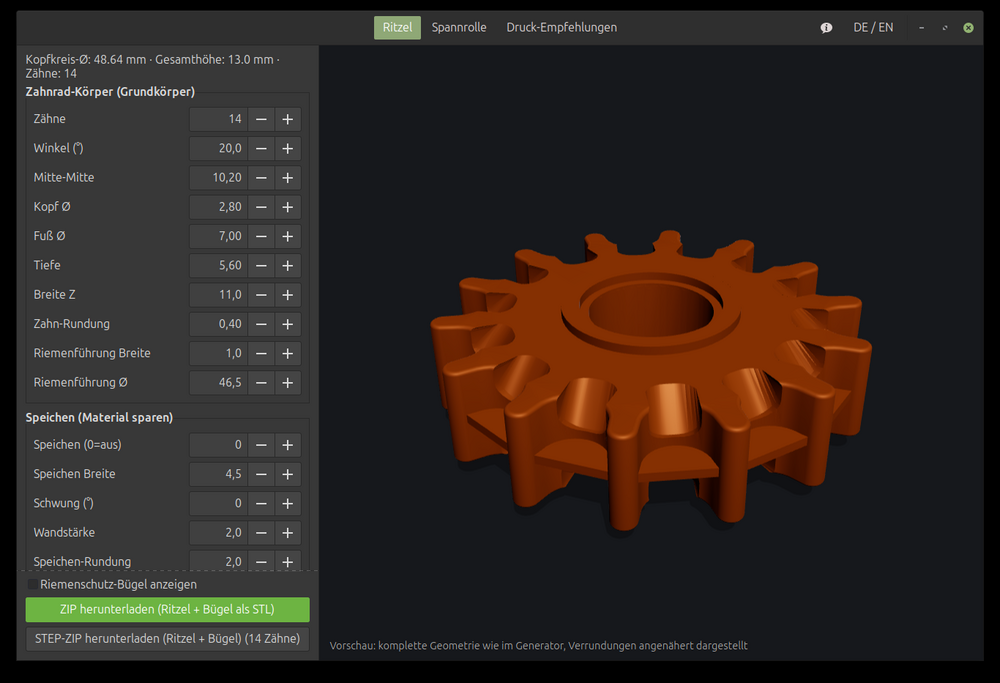
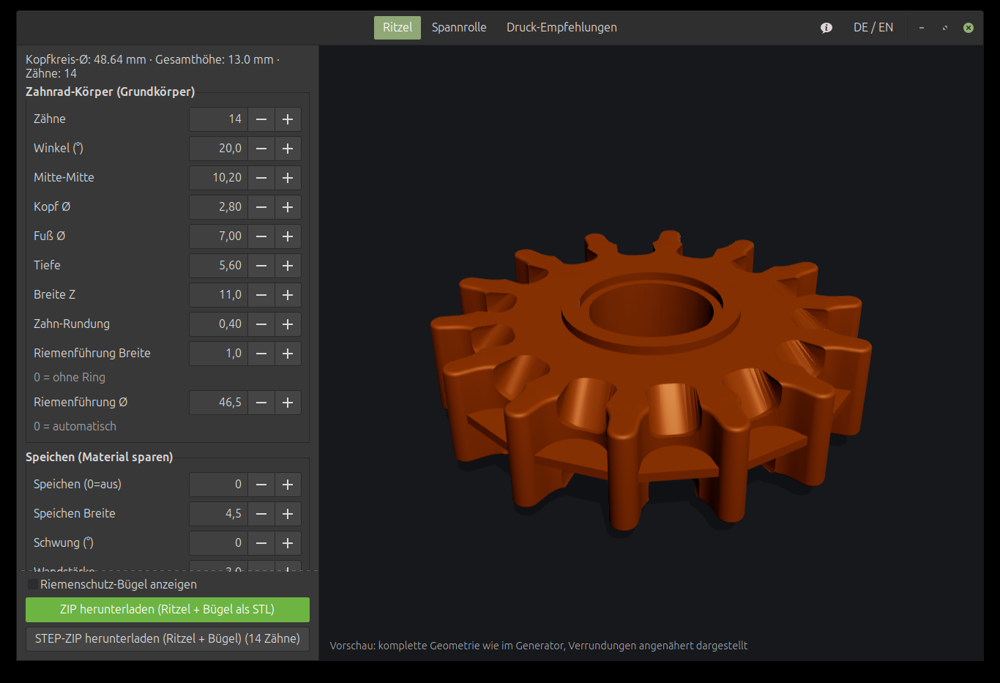
Zusatz '0 = ...' bei Riemenfuehrung wieder sichtbar: graue Zeile unter dem Feld
Label bleibt einzeilig, der Zusatz steht immer sichtbar darunter (Web, Android,
Linux-App). FreeCAD haengt ihn in Klammern an das Label (params.json: zusatz).

diff --git a/web/js/fields.js b/web/js/fields.js
@@ -94,7 +94,7 @@ export function buildFormFields(onChange, bauteil = STANDARD_BAUTEIL) {
   for (const b of PARAMS.bauteile)
     for (const a of b.abschnitte) {
       const sec = document.getElementById(a.id);
-      if (sec) sec.querySelectorAll('.row').forEach(r => r.remove());
+      if (sec) sec.querySelectorAll('.row, .rownote').forEach(r => r.remove());
     }
 
   for (const [secId, felder] of sections(bauteil)) {
@@ -105,9 +105,11 @@ export function buildFormFields(onChange, bauteil = STANDARD_BAUTEIL) {
     for (const [key, labelKey, def, step] of felder) {
       const row = document.createElement('div'); row.className = 'row';
       const lab = document.createElement('label'); lab.textContent = t(labelKey); lab.htmlFor = key;
-      // Kurze Beschriftung + Tooltip: „0 = …“ passt nicht in die Zeile (labelKey_tip).
+      // Kurzer Zusatz („0 = …“): passt nicht ins Label, ist aber wichtig — er steht
+      // als graue Zeile unter dem Feld (labelKey_tip in i18n.js) und als Tooltip.
       const tip = t(labelKey + '_tip');
-      if (tip !== labelKey + '_tip') lab.title = tip;
+      const zusatz = tip !== labelKey + '_tip' ? tip : '';
+      if (zusatz) lab.title = zusatz;
       const inp = document.createElement('input');
       inp.type = 'number'; inp.id = key; inp.value = def; inp.step = step;
       if (key === 'zaehne' && g) {
@@ -126,6 +128,10 @@ export function buildFormFields(onChange, bauteil = STANDARD_BAUTEIL) {
       if (lab.title) inp.title = lab.title;
       inp.addEventListener('input', onChange);
       row.append(lab, spinFeld(inp)); sec.append(row);
+      if (zusatz) {
+        const note = document.createElement('div'); note.className = 'rownote';
+        note.textContent = zusatz; sec.append(note);
+      }
       inputs[key] = inp;
     }
   }

diff --git a/web/js/i18n.js b/web/js/i18n.js
@@ -64,7 +64,7 @@ export const i18n = {
       tooth_round: 'Zahn-Rundung',
       guide_width: 'Riemenführung Breite',
       guide_width_tip: '0 = ohne Ring',
-      guide_d_tip: '0 = automatisch (passt sich dem Zahnkranz an)',
+      guide_d_tip: '0 = automatisch',
       hint_guide: 'Riemenführung = der mittlere Führungsring für den Gates-Riemen. Breite 0 = kein Ring. Ø 0 = automatisch, der Ring passt sich dem Zahnkranz an.',
       guide_d: 'Riemenführung Ø',
       bore_d: 'Bohrung Ø',
@@ -168,7 +168,7 @@ export const i18n = {
       tooth_round: 'Tooth rounding',
       guide_width: 'Belt guide width',
       guide_width_tip: '0 = no ring',
-      guide_d_tip: '0 = automatic (adapts to the tooth rim)',
+      guide_d_tip: '0 = automatic',
       hint_guide: 'Belt guide = the central guide ring for the Gates belt. Width 0 = no ring. Ø 0 = automatic, the ring adapts to the tooth rim.',
       guide_d: 'Belt guide Ø',
       bore_d: 'Bore Ø',

diff --git a/web/css/style.css b/web/css/style.css
@@ -66,6 +66,7 @@ legend + * { clear: both; }
 .row input::-webkit-outer-spin-button,
 .row input::-webkit-inner-spin-button { -webkit-appearance: none; margin: 0; }
 .row input:focus { outline: none; border-color: var(--accent); }
+.rownote { font-size: 13px; color: var(--muted); margin: -3px 0 8px; }
 .spinbtn {
   /* globale Knopf-Regel (block/100%) zurücksetzen */
   display: block; width: 32px; flex: 0 0 32px; margin: 0 0 0 -1px; padding: 0;

diff --git a/linux/ritzel-generator.py b/linux/ritzel-generator.py
@@ -59,7 +59,9 @@ JS_AUSLESEN = """(function(){
     fs.querySelectorAll('.row').forEach(r => {
       const l = r.querySelector('label'), i = r.querySelector('input');
       if (!i) return;
+      const n = r.nextElementSibling;
       rows.push({id: i.id, label: l ? l.textContent.trim() : i.id, value: parseFloat(i.value),
+                 note: n && n.classList.contains('rownote') ? n.textContent.trim() : '',
                  step: parseFloat(i.step) || 1,
                  min: i.min !== '' ? parseFloat(i.min) : null,
                  max: i.max !== '' ? parseFloat(i.max) : null});
@@ -294,7 +296,8 @@ class App(Gtk.Window):
             gitter = Gtk.Grid(row_spacing=6, column_spacing=10)
             for m in ('start', 'end', 'top', 'bottom'):
                 getattr(gitter, f'set_margin_{m}')(10)
-            for z, r in enumerate(sec['rows']):
+            zeile = 0                       # Gitterzeile: Zusätze brauchen eine eigene
+            for r in sec['rows']:
                 lab = Gtk.Label(label=r['label'], xalign=0, wrap=True)
                 lab.set_hexpand(True)
                 step = r['step']
@@ -306,10 +309,17 @@ class App(Gtk.Window):
                 spin.set_width_chars(7)
                 spin.set_alignment(1.0)
                 spin.connect('value-changed', self.wert_geaendert, r['id'])
-                gitter.attach(lab, 0, z, 1, 1)
-                gitter.attach(spin, 1, z, 1, 1)
+                gitter.attach(lab, 0, zeile, 1, 1)
+                gitter.attach(spin, 1, zeile, 1, 1)
                 self.zeilen[r['id']] = spin
-            ende = len(sec['rows'])
+                zeile += 1
+                if r.get('note'):           # Zusatz („0 = …“) als graue Zeile unter dem Feld
+                    zusatz = self.neues_hinweislabel()
+                    zusatz.set_text(r['note'])
+                    zusatz.set_margin_bottom(2)
+                    gitter.attach(zusatz, 0, zeile, 2, 1)
+                    zeile += 1
+            ende = zeile
             for h in sec['hints']:
                 l = self.neues_hinweislabel()
                 l.set_text(h)

diff --git a/freecad/zahnrad_params.py b/freecad/zahnrad_params.py
@@ -41,6 +41,13 @@ def _teil(bauteil):
     return _BAUTEILE.get(bauteil, _BAUTEILE[STANDARD_BAUTEIL])
 
 
+def _label(feld):
+    """Beschriftung eines Feldes, mit dem Zusatz in Klammern (z. B. „0 = ohne
+    Ring“), falls params.json einen kennt."""
+    zusatz = feld.get("zusatz")
+    return f"{feld['de']} ({zusatz})" if zusatz else feld["de"]
+
+
 def feld_sektionen(bauteil=STANDARD_BAUTEIL):
     """Eingabefelder eines Bauteils, gegliedert wie das FreeCAD-Bedienfeld
     sie anzeigt. Format je Abschnitt: (Überschrift, [(key, label, default)])."""
@@ -55,7 +62,7 @@ def feld_sektionen(bauteil=STANDARD_BAUTEIL):
     reihenfolge = teil.get("reihenfolge_freecad", list(nach_id))
     return [
         (nach_id[_id]["de"],
-         [(f["key"], f["de"], f["standard"]) for f in nach_id[_id]["felder"]])
+         [(f["key"], _label(f), f["standard"]) for f in nach_id[_id]["felder"]])
         for _id in reihenfolge
     ]
 

diff --git a/freecad/zahnrad_ui.py b/freecad/zahnrad_ui.py
@@ -210,7 +210,9 @@ class ZahnradDockPanel(QtWidgets.QDockWidget):
         for i, (label, spinbox) in enumerate(paare):
             box = QtWidgets.QVBoxLayout()
             box.setSpacing(2)
-            box.addWidget(QtWidgets.QLabel(label))
+            beschriftung = QtWidgets.QLabel(label)
+            beschriftung.setWordWrap(True)      # lange Zusätze brechen um, statt das Dock zu verbreitern
+            box.addWidget(beschriftung)
             box.addWidget(spinbox)
             grid.addLayout(box, i // spalten, i % spalten)
         for spalte in range(spalten):
